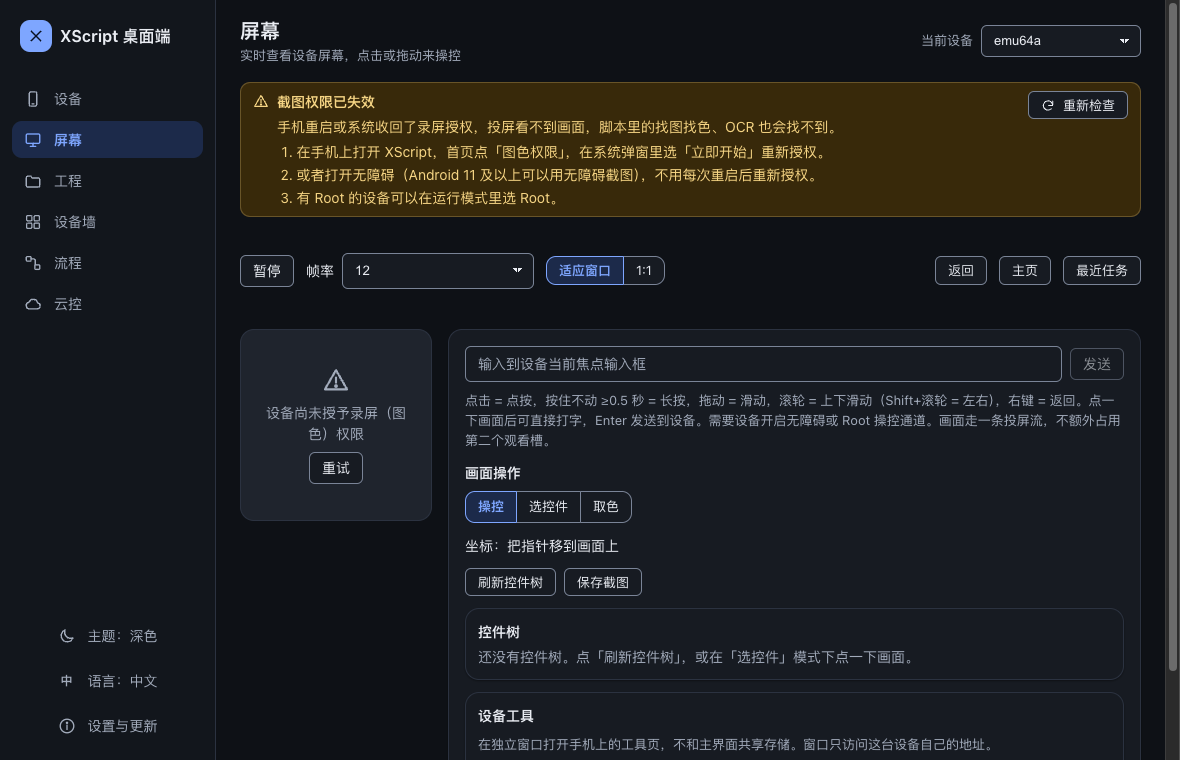
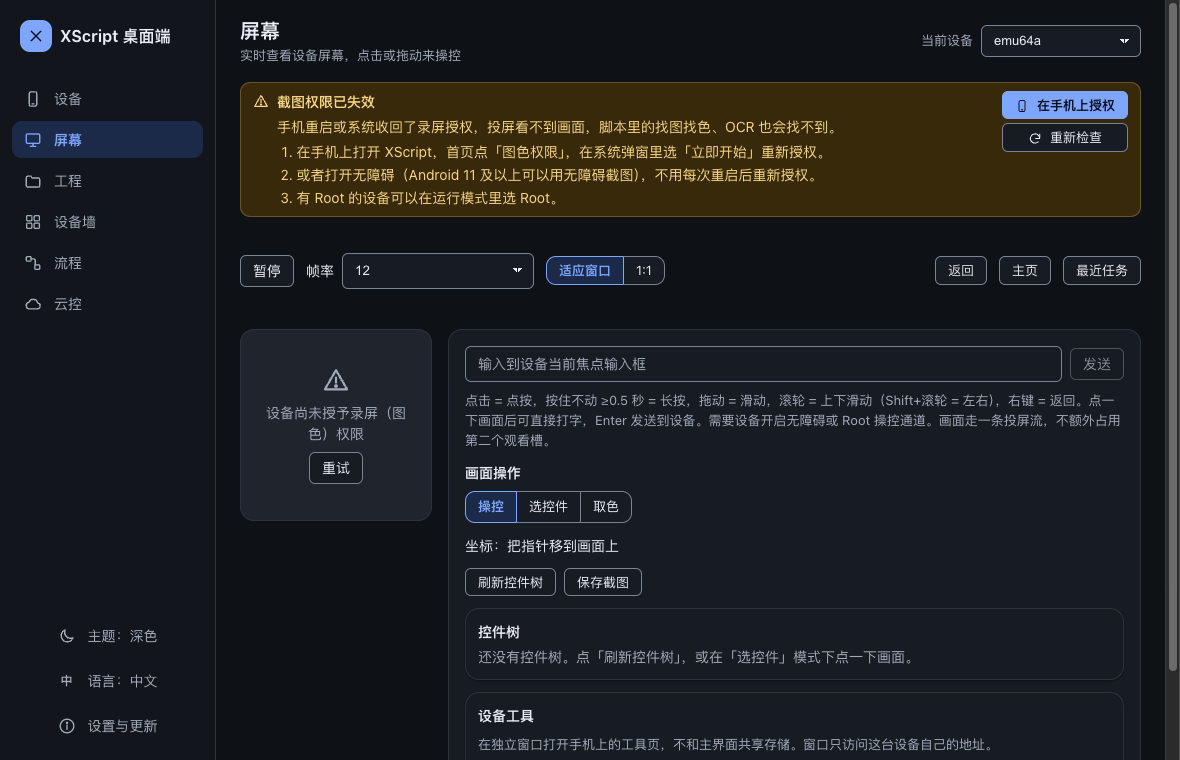
docs: describe granting capture from the desktop and retake screenshots

Changed region(s): [[0.8237, 0.1211, 0.9763, 0.2118]]

diff --git a/desktop/README.md b/desktop/README.md
@@ -24,7 +24,7 @@
 | **工程页** | 选在线设备 → 工程列表 / 新建 → 文件列表 → 编辑与保存（⌘/Ctrl+S）→ 保存并运行（F6）/ 停止（Shift+F6）→ 按 `seq` 游标跟随 `/logs`（约 1 s 轮询，最多 2000 行）；文件 **新建 / 重命名 / 删除**（入口 `__init__.py` 受保护）；文件夹整体删除（确认框列出其中的文件，`project.deleteFile` 带 `recursive: true`）；**在工程中搜索**（⌘⇧F / Ctrl+Shift+F；区分大小写、正则；结果按文件分组，点开选中匹配；RPC `project.search`）；返回 / 主页 / 最近任务 按键 | `frontend/src/components/ProjectsPage.tsx`、`ProjectSearch.tsx`、`app/xscript_desktop/services/project_search.py` |
 | **Monaco 编辑器** | 本地打包（无 CDN，CSP 下可用），只注册 Python；按需加载（约 4 MB 的独立 chunk）；**补全** 来自 `ide/python-stubs`：`import` / `from … import` / 别名 `x.` / 类成员，带签名与文档。数据重新生成：`python3 frontend/scripts/gen_stub_completions.py`（`--check` 由 pytest 守着）。浏览器演示模式与 jsdom 测试里回退为 `<textarea>` | `frontend/src/editor/`、`components/CodeEditor.tsx` |
 | **本地文件夹同步** | 移植 VS Code 插件 `sync.ts`：`.vscode/.syncignore`、跳过点文件 / `__pycache__` / `*.pyc` / 虚拟环境；**增量**＝设备上大小相同 *且* 内容哈希等于上次本机上传的才跳过；分批 `PUT /files`（每批约 2 MB，推送 `sync.progress`）；全量上传；拉取到本地（只写新增/变化，本地多出的不动）。哈希在应用数据库的 `sync_cache` 表（设计 §14.5）；若数据目录里还有旧的 `sync-cache.json`，启动时导入一次。文件夹必须含 `__init__.py` 或 `build.as`，上限 5000 个文件 / 200 MB。原生「选择文件夹」对话框 | `app/xscript_desktop/services/sync.py`、`store.py`、`dialogs.py`、`frontend/src/components/SyncPanel.tsx` |
-| **屏幕（投屏 + 操控）** | 每台设备只开一条 `GET /screen/stream`（MJPEG，默认 fps=12、scale=0.5、quality=60），扇出给订阅者。最新一帧放内存，页面用 `xsapp://app/_frame/<id>?seq=N` 取（事件 `mirror.frame`，加载中到达的帧丢掉）。开流前先看 `/status.capture`，未授权绝不开流。页面顶部的「截图状态」读 `/status.capture_via` / `capture_lost`（`components/CaptureStatus.tsx`）：能截图时工具栏显示方式，不能时显示原因和恢复步骤，「重新检查」调 `device.refresh`。429 时改轮询 `GET /screen`（约 2 fps，max=480）并按 0.5–8 秒退避重试（每次不早于关闭后 1.5 秒），成功后回到流。3 秒无帧则主动断开且不自动重试。最后一个订阅者离开、断开设备或退出时立刻关闭上游。点按/长按/滑动与按键、文字仍走 `device.action`。设备卡片上的单张截图仍走 `/_shot/`，不占观看槽 | `app/xscript_desktop/services/mirror.py`、`frontend/src/components/MirrorPage.tsx` |
+| **屏幕（投屏 + 操控）** | 每台设备只开一条 `GET /screen/stream`（MJPEG，默认 fps=12、scale=0.5、quality=60），扇出给订阅者。最新一帧放内存，页面用 `xsapp://app/_frame/<id>?seq=N` 取（事件 `mirror.frame`，加载中到达的帧丢掉）。开流前先看 `/status.capture`，未授权绝不开流。页面顶部的「截图状态」读 `/status.capture_via` / `capture_lost`（`components/CaptureStatus.tsx`）：能截图时工具栏显示方式，不能时显示原因和恢复步骤，「重新检查」调 `device.refresh`，「在手机上授权」调 `device.requestCapture`（手机 `POST /capture/request`：弹出系统录屏授权窗口并发通知；旧版 App 404 时提示升级）。429 时改轮询 `GET /screen`（约 2 fps，max=480）并按 0.5–8 秒退避重试（每次不早于关闭后 1.5 秒），成功后回到流。3 秒无帧则主动断开且不自动重试。最后一个订阅者离开、断开设备或退出时立刻关闭上游。点按/长按/滑动与按键、文字仍走 `device.action`。设备卡片上的单张截图仍走 `/_shot/`，不占观看槽 | `app/xscript_desktop/services/mirror.py`、`frontend/src/components/MirrorPage.tsx` |
 | **断点调试** | 移植 VS Code 插件 `dap.ts`：Python 侧 `DebugSession` 当 DAP 客户端（页面不能联网），经 `POST /projects/{name}/debug` → `/debug/connect`（409 时重试）→ `/debug/request` + `/debug/messages?since=` 轮询驱动设备上的 debugpy；握手顺序 initialize → attach（不等响应）→ `initialized` → setBreakpoints → setExceptionBreakpoints(uncaught) → configurationDone。Monaco **装订线断点**（点行号左侧或 F9），暂停行高亮并自动打开对应文件；工具栏 调试/继续（F5）、单步跳过（F10）、进入（F11）、跳出（Shift+F11）、暂停、分离、停止（Shift+F5）；**调用栈**（工程外的帧会标出来）、**变量**（Locals 自动展开，Globals 与子对象按需展开）、在栈帧上**求值**、调试控制台。停止时先发 DAP `disconnect(terminateDebuggee=false)` 再关通道，然后只停自己启动的脚本（设备忙时报 409「已在运行」，不会停别人的脚本）；会话中切换断点会立即下发 | `app/xscript_desktop/services/debugger.py`、`frontend/src/components/DebugPanel.tsx` |
 | **中 / 英界面** | 侧栏底部切换，记住选择，设置 `<html lang>`；两套词典键由类型和测试保证一致 | `frontend/src/strings.ts`、`src/i18n.ts` |
 | **已保存设备** | SQLite `desktop.db`（WAL，专用线程）。连接成功后记住设备；**不保存 adb 自动分配的本地端口**，下次按序列号重新 `forward`。断开后卡片留在列表里显示离线，忘记才删除。可改名称、分组、备注，以及「自动重连」：第一次连上的设备默认勾上，打开窗口时并行重连，ADB 设备重新插上（或刚授权）时也会自动连接；设备页顶部「自动重连设备」是全局开关（设计 §14.5）。数据库损坏会改名后重建并提示；来自更新版本则只读。不写密钥 | `app/xscript_desktop/services/store.py`、`frontend/src/components/DevicePage.tsx` |

diff --git a/docs/使用手册.md b/docs/使用手册.md
@@ -556,7 +556,7 @@ yolo export model=runs/detect/train/weights/best.pt format=onnx imgsz=640
 
 ![桌面端设备页：「连不上设备」提示和排查步骤链接](images/desktop-connect-error-light.png)
 
-**截图状态**：**屏幕** 页的工具栏显示设备现在用哪种方式截图（「截图：系统录屏 / 无障碍截图 / Root 截图」；系统录屏授权已失效、改用无障碍时，鼠标悬停会说明）。设备截不了图时，页面顶部出现 **截图状态** 卡片：手机重启或系统收回录屏授权时显示「截图权限已失效」，从没授权时显示「设备还不能截图」，下面列出恢复步骤（首页「图色权限」重新授权、打开无障碍、Root）。在手机上处理好后点 **重新检查**，卡片消失、投屏恢复。需要 v0.4.0 之后的 App（`/status` 里有 `capture_via`），v0.4.0 及更早的 App 只在没有录屏授权时显示「设备还不能截图」。脚本里对应的检查是 `screen.capture_status()`。
+**截图状态**：**屏幕** 页的工具栏显示设备现在用哪种方式截图（「截图：系统录屏 / 无障碍截图 / Root 截图」；系统录屏授权已失效、改用无障碍时，鼠标悬停会说明）。设备截不了图时，页面顶部出现 **截图状态** 卡片：手机重启或系统收回录屏授权时显示「截图权限已失效」，从没授权时显示「设备还不能截图」，下面列出恢复步骤（首页「图色权限」重新授权、打开无障碍、Root）。点 **在手机上授权** 可以直接在手机上弹出系统录屏授权窗口（同时发一条通知「电脑端请求开启图色权限」，窗口没出现时点通知），在手机上选「立即开始」。在手机上处理好后点 **重新检查**，卡片消失、投屏恢复。「在手机上授权」需要本版本及之后的手机 App，旧版会提示升级。需要 v0.4.0 之后的 App（`/status` 里有 `capture_via`），v0.4.0 及更早的 App 只在没有录屏授权时显示「设备还不能截图」。脚本里对应的检查是 `screen.capture_status()`。
 
 ![桌面端屏幕页：「截图权限已失效」卡片和恢复步骤](images/desktop-capture-lost-light.png)
 
